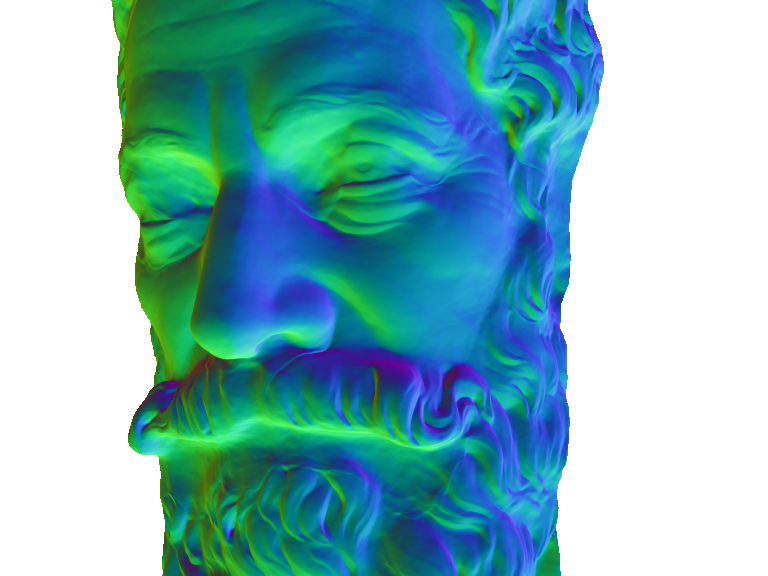
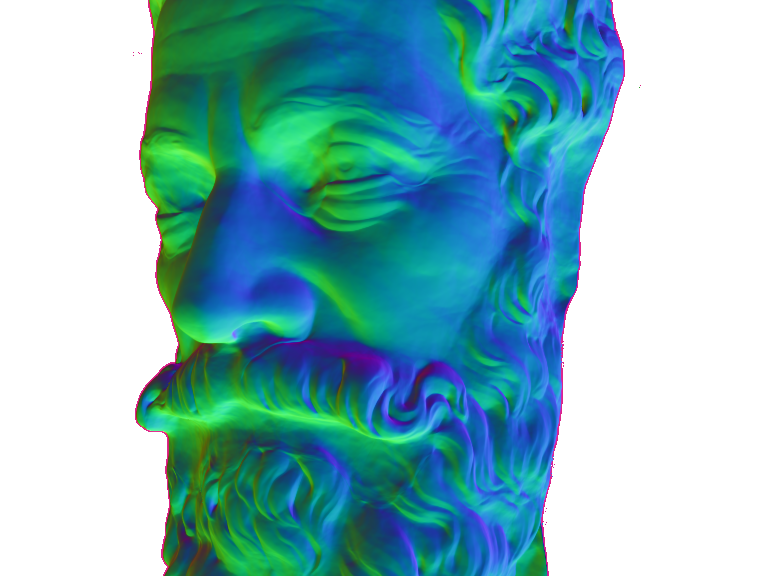
minor changes

diff --git a/index.html b/index.html
@@ -143,7 +143,7 @@ thin structures.
         <!-- Comparisons Videos -->
         <hr style="border-top: 3px double;">
         <h5>Rendering Results</h5>
-        <h6>Rendered RGB images with corresponding high-quality rendered normal maps.</h6> 
+        <h6>Novel view synthesis: Examples of RGB images and their corresponding normal maps rendered, using our approach, from novel views.</h6> 
         <div class="container;" style=" padding-bottom: 10px;">
             <ul class="nav nav-tabs nav-fill nav-justified" id="object-bmvsimages-render">
                 <li class="nav-item">
